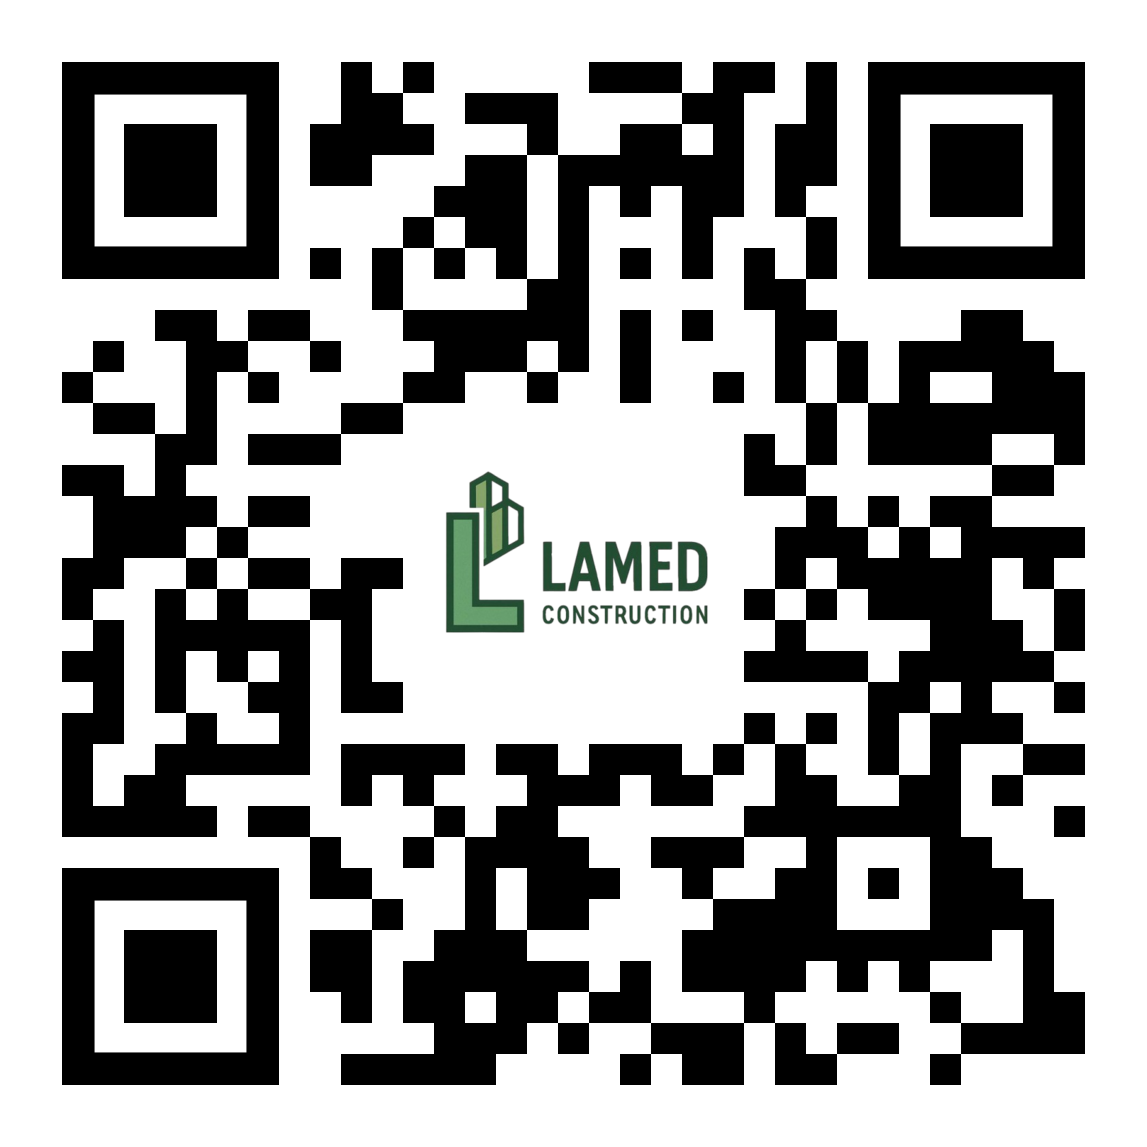
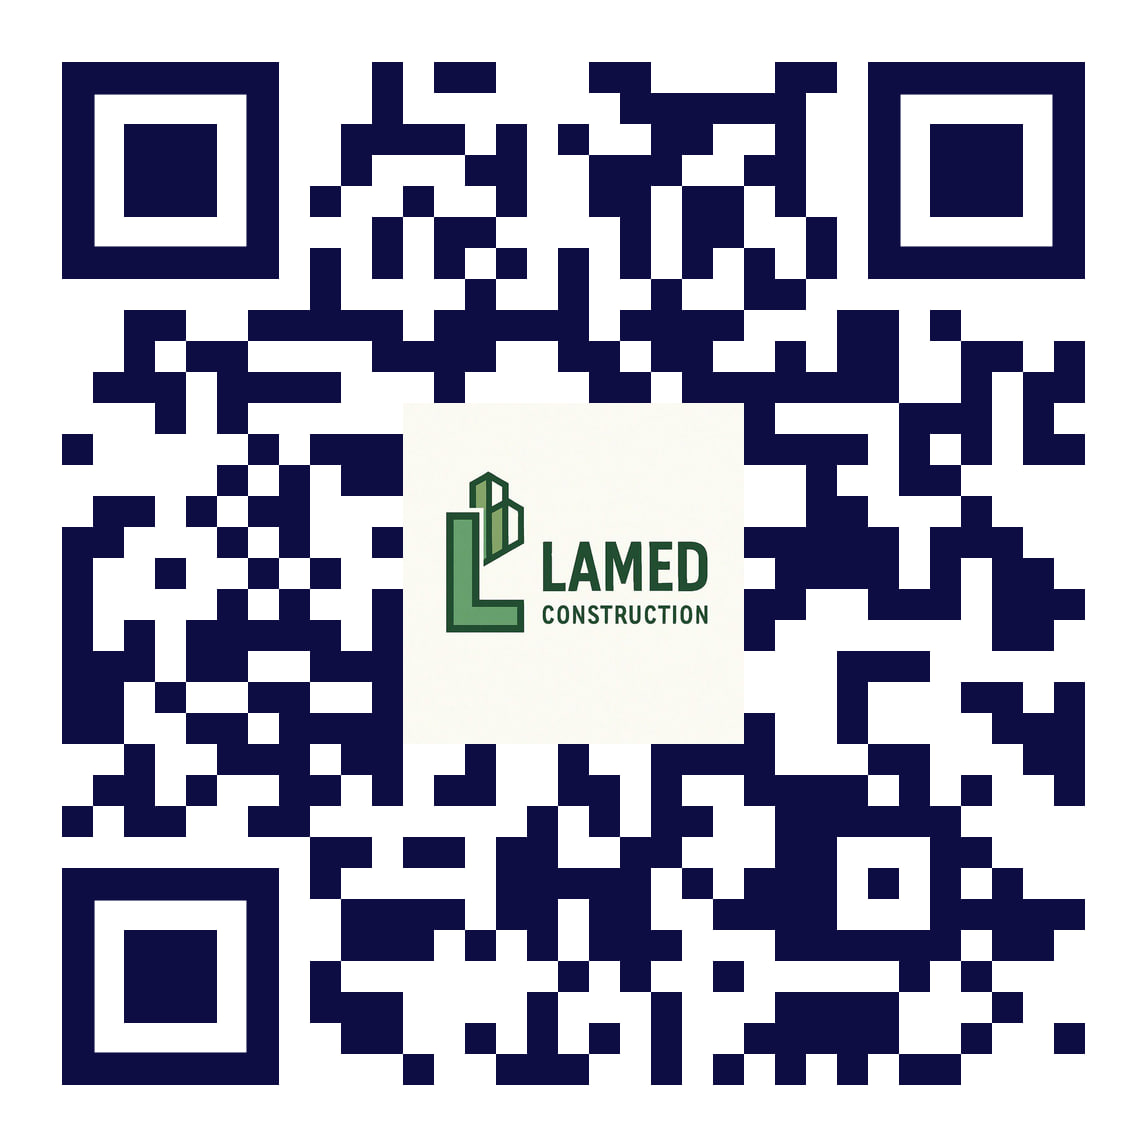
feat: use lamed_qrcode.png in footer

diff --git a/apps/web/src/components/layout/Footer.tsx b/apps/web/src/components/layout/Footer.tsx
@@ -12,7 +12,7 @@ import {
   Clock,
 } from "lucide-react";
 import logoImage from "../../../assets/LAMED-Photoroom.png";
-const qrCodeImage = "/assets/images/qrcode_lamedconstruction_et.png";
+const qrCodeImage = "/assets/images/lamed_qrcode.png";
 import { useLanguageStore } from "@/store/languageStore";
 import { useTranslation } from "@/lib/i18n";
 const BG = "#3ecf8e";

diff --git a/src/components/layout/Footer.tsx b/src/components/layout/Footer.tsx
@@ -12,7 +12,7 @@ import {
   Clock,
 } from "lucide-react";
 import logoImage from "../../../assets/LAMED-Photoroom.png";
-const qrCodeImage = "/assets/images/qrcode_lamedconstruction_et.png";
+const qrCodeImage = "/assets/images/lamed_qrcode.png";
 import { useLanguageStore } from "@/store/languageStore";
 import { useTranslation } from "@/lib/i18n";
 const BG = "#3ecf8e";
